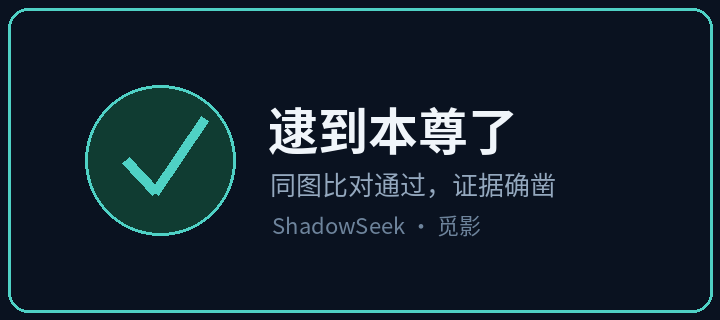
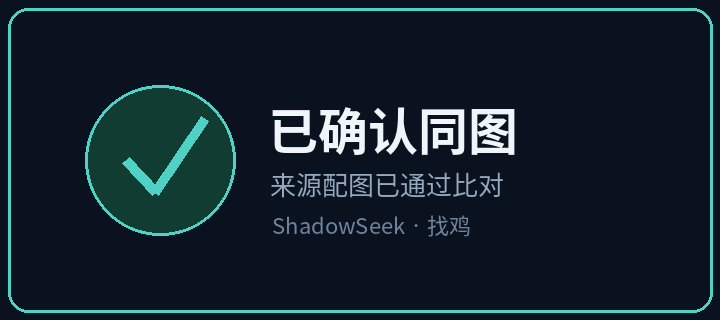
refactor: 品牌统一为「找鸡」，移除口语化网络梗
帮助命令改为 找鸡帮助，结果字段回归判定/账号/原帖/依据，图片同步重绘。

Changed region(s): [[0.3667, 0.3125, 0.7333, 0.5], [0.3667, 0.5312, 0.7639, 0.625], [0.5806, 0.6562, 0.6722, 0.75]]

diff --git a/lens/formatting.py b/lens/formatting.py
@@ -1,6 +1,6 @@
 """结果文案。
 
-刻意采用“判定 / 账号 / 原帖 / 依据 / 可信度”的结构，与原插件的五行模板区分。
+结果统一使用“判定 / 账号 / 原帖 / 依据 / 可信度”的结构，措辞保持直白。
 """
 
 from __future__ import annotations
@@ -15,27 +15,27 @@ from .models import (
     Selection,
 )
 
-HELP_TEXT = """【觅影】专业鉴图，专治「这图到底谁发的」
-发图配一句「觅影」，或引用图片再发「觅影」，我就去全网翻线索。
-· 只认原图不认脸熟，长得像的一律先当嫌疑人
-· 几位嫌疑人证据一样硬，就一起摆上桌，不硬拗答案
-· 全程只翻公开信息，不登录、不查水表
-别名：找鸡 / 图源定位 / 找原图
+HELP_TEXT = """【找鸡】发图帮你找出这张图在 X 上的原始出处
+发图配「找鸡」，或引用图片再发「找鸡」，即可检索最可能的 X 原帖或账号。
+· 只认同图：配图对上了才算找到，长得像的只作弱线索
+· 多个候选证据一样强时并列给出，不硬选一个
+· 只读取公开页面，不登录、不需要账号
+别名：觅影 / 图源定位 / 找原图
 配置：网页控制台 → ShadowSeek"""
 
 
 def _judgement(candidate: Candidate) -> str:
     if candidate.relation:
-        return "引用链锁定"
+        return "引用关系确认"
     if candidate.verified:
-        return "同图实锤"
+        return "已确认同图"
     if candidate.level >= LEVEL_SIGNED:
-        return "署名对得上"
+        return "来源署名"
     if candidate.level >= LEVEL_LINK:
-        return "摸到主页了"
+        return "链接指向"
     if candidate.level >= LEVEL_MENTION:
-        return "有人提过名"
-    return "只有皮毛"
+        return "文字提及"
+    return "弱线索"
 
 
 def _confidence(candidate: Candidate) -> str:
@@ -63,36 +63,35 @@ def _line(candidate: Candidate, prefix: str = "账号") -> str:
 def format_result(selection: Selection, report: Report) -> str:
     primary = selection.primary
     if primary is None:
-        lines = ["【觅影】翻遍犄角旮旯，没逮到本尊。"]
+        lines = ["【找鸡】没有找到可确认的来源"]
         if selection.found_pages_without_x:
-            lines.append("图是找着了，可页面里没留下 X 账号或帖子，线索断在这儿。")
+            lines.append("找到了同图页面，但页面里没有可核对的 X 账号或帖子。")
         else:
-            lines.append("识图引擎集体哑火，一张能用的 X 来源都没吐出来。")
+            lines.append("识图引擎没有返回可用的 X 来源。")
         lines.extend(_diagnostics(report))
         return "\n".join(lines)
 
-    label = "本尊" if (primary.verified or primary.relation) else "嫌疑人"
     lines = [
-        f"【觅影】判定：{_judgement(primary)}（可信度：{_confidence(primary)}）",
-        _line(primary, label),
+        f"【找鸡】判定：{_judgement(primary)}（可信度：{_confidence(primary)}）",
+        _line(primary),
     ]
     if primary.url:
-        lines.append(f"首发现场：{primary.url}")
-    reason = primary.chosen_reason or "暂时没找到硬线索"
-    lines.append(f"线索：{reason}")
+        lines.append(f"原帖：{primary.url}")
+    reason = primary.chosen_reason or "未提供判定依据"
+    lines.append(f"依据：{reason}")
 
     if selection.ambiguous:
-        lines.append("说明：几位嫌疑人证据一样硬，先不急着定罪。")
+        lines.append("说明：多个候选证据相当，暂不判定归属。")
     for alternate in selection.alternates:
-        lines.append(f"同期嫌疑人：{_account(alternate) or '未知'}")
+        lines.append(f"并列候选：{_account(alternate) or '未知'}")
         if alternate.url:
-            lines.append(f"　　　　　　　{alternate.url}")
+            lines.append(f"　　　　　{alternate.url}")
 
     if report.cache_hit:
-        lines.append("（熟人局，直接从缓存里请出来的）")
+        lines.append("（结果来自缓存）")
     if report.errors:
         errors = [f"{name}：{reason}" for name, reason in list(report.errors.items())[:4]]
-        lines.append("小状况：" + "；".join(errors))
+        lines.append("异常：" + "；".join(errors))
     return "\n".join(lines)
 
 
@@ -101,7 +100,7 @@ def _diagnostics(report: Report) -> list[str]:
     for engine, count in report.engine_counts.items():
         parts.append(f"{engine} {count}")
     if parts:
-        parts_line = "引擎战绩： " + " · ".join(parts)
+        parts_line = "检索： " + " · ".join(parts)
     else:
         parts_line = ""
     errors = [
@@ -112,9 +111,9 @@ def _diagnostics(report: Report) -> list[str]:
     if parts_line:
         lines.append(parts_line)
     if errors:
-        lines.append("小状况：" + "；".join(errors))
+        lines.append("异常：" + "；".join(errors))
     return lines
 
 
 def format_error(message: str) -> str:
-    return f"【觅影】{message}"
+    return f"【找鸡】{message}"

diff --git a/lens/command.py b/lens/command.py
@@ -24,8 +24,8 @@ from .formatting import HELP_TEXT, format_error, format_result
 
 ASSETS = Path(__file__).resolve().parent.parent / "assets"
 
-sv_shadowseek = SV("觅影", priority=5, area="ALL")
-sv_help = SV("觅影帮助", priority=2)
+sv_shadowseek = SV("找鸡", priority=5, area="ALL")
+sv_help = SV("找鸡帮助", priority=2)
 
 _CQ_IMAGE = re.compile(r"\[CQ:image,([^\]]*)\]")
 _IMAGE_URL = re.compile(r"\.(?:jpg|jpeg|png|webp|gif)(?:[?#].*)?$", re.I)
@@ -171,8 +171,8 @@ async def shadowseek_command(bot: Bot, ev: Event) -> None:
     if not sources:
         await bot.send(
             format_error(
-                "图呢？发张图再配一句「觅影」，或者引用图片再发「觅影」。\n"
-                f"发送「{_safe_prefix()}觅影帮助」看看怎么用。"
+                "请发送图片并带上「找鸡」，或引用图片再发「找鸡」。\n"
+                f"发送「{_safe_prefix()}找鸡帮助」查看用法。"
             )
         )
         return
@@ -180,13 +180,13 @@ async def shadowseek_command(bot: Bot, ev: Event) -> None:
     key = f"{ev.group_id or 'direct'}:{ev.user_id}"
     wait = await _cooldown_wait(key, settings.cooldown_seconds)
     if wait:
-        await bot.send(format_error(f"别急，让子弹飞 {wait} 秒。"))
+        await bot.send(format_error(f"操作太快，请 {wait} 秒后再试。"))
         return
 
     semaphore = await _acquire_slot(settings.max_concurrency)
     try:
         if settings.send_progress:
-            await bot.send("【觅影】正在全网翻箱倒柜，顺着图找本尊，稍等…")
+            await bot.send("【找鸡】正在检索图片来源，请稍候…")
         raw = await load_source(
             sources[0], settings.proxy or None, timeout=min(settings.search_timeout, 12)
         )
@@ -202,16 +202,16 @@ async def shadowseek_command(bot: Bot, ev: Event) -> None:
     except ImageError as exc:
         await bot.send(format_error(str(exc)))
     except Exception as exc:
-        logger.exception(f"[ShadowSeek] 觅影失败: {exc}")
-        await bot.send(format_error("半路翻车了，稍后再来一趟。"))
+        logger.exception(f"[ShadowSeek] 找鸡失败: {exc}")
+        await bot.send(format_error("检索过程出错，请稍后再试。"))
     finally:
         semaphore.release()
 
 
-@sv_help.on_fullmatch(("觅影帮助", "图源帮助", "ShadowSeek帮助"), block=True)
+@sv_help.on_fullmatch(("找鸡帮助",), block=True)
 async def shadowseek_help(bot: Bot, ev: Event) -> None:
     prefix = _safe_prefix()
-    text = HELP_TEXT if not prefix else HELP_TEXT.replace("「觅影」", f"「{prefix}觅影」")
+    text = HELP_TEXT if not prefix else HELP_TEXT.replace("「找鸡」", f"「{prefix}找鸡」")
     await bot.send(text)
     if (ASSETS / "help.png").is_file():
         await bot.send(MessageSegment.image(ASSETS / "help.png"))
@@ -220,8 +220,8 @@ async def shadowseek_help(bot: Bot, ev: Event) -> None:
 if (ASSETS / "ICON.png").is_file():
     register_help(
         "ShadowSeek",
-        f"{_safe_prefix()}觅影帮助",
+        f"{_safe_prefix()}找鸡帮助",
         Image.open(ASSETS / "ICON.png"),
     )
 else:
-    register_help("ShadowSeek", f"{_safe_prefix()}觅影帮助")
+    register_help("ShadowSeek", f"{_safe_prefix()}找鸡帮助")

diff --git a/lens/config.py b/lens/config.py
@@ -25,8 +25,8 @@ CONFIG_DEFAULT: dict[str, Any] = {
     "基础设置": GsDivider("基础设置", "命令范围、白名单与冷却"),
     "group_whitelist": GsListStrConfig("群白名单", "留空表示所有群都能使用", []),
     "private_whitelist": GsListStrConfig("私聊白名单", "留空表示所有私聊都能使用", []),
-    "cooldown_seconds": GsIntConfig("冷却秒数", "同一用户两次觅影的最短间隔", 15, max_value=600),
-    "max_concurrency": GsIntConfig("最大并发", "同时进行的觅影任务上限", 4, max_value=32),
+    "cooldown_seconds": GsIntConfig("冷却秒数", "同一用户两次找鸡的最短间隔", 15, max_value=600),
+    "max_concurrency": GsIntConfig("最大并发", "同时进行的找鸡任务上限", 4, max_value=32),
     "send_progress": GsBoolConfig("发送进度提示", "开始检索时先回一条提示", True),
     "send_result_image": GsBoolConfig("发送结论配图", "命中同图时附带一张结论图", True),
     "识图引擎": GsDivider("识图引擎", "按需启用；未配置 Key 的付费引擎会自动跳过"),
@@ -43,8 +43,8 @@ CONFIG_DEFAULT: dict[str, Any] = {
     "saucenao_api_key": GsStrConfig("SauceNAO Key", "启用 saucenao 引擎时必填", "", secret=True),
     "X 来源核验": GsDivider("X 来源核验", "读取帖子作者、关注者与配图"),
     "x_lookup_timeout": GsIntConfig("X 读取超时", "读取单条 X 帖子的超时（秒）", 10, max_value=60),
-    "max_posts": GsIntConfig("最多核验帖子", "一次觅影最多读取多少条 X 帖子", 6, max_value=20),
-    "max_pages": GsIntConfig("最多读取来源页", "一次觅影最多打开多少个来源网页", 6, max_value=20),
+    "max_posts": GsIntConfig("最多核验帖子", "一次找鸡最多读取多少条 X 帖子", 6, max_value=20),
+    "max_pages": GsIntConfig("最多读取来源页", "一次找鸡最多打开多少个来源网页", 6, max_value=20),
     "x_keyword_search": GsBoolConfig("启用关键词反查", "从来源页文字里抽一句，去 X 上反查原帖", True),
     "nitter_base": GsStrConfig("Nitter 地址", "可选，仅用于读取账号资料与图片", ""),
     "模型辅助": GsDivider("模型辅助", "可选：用兼容 OpenAI 的模型抽取来源文字"),

diff --git a/tests/test_formatting.py b/tests/test_formatting.py
@@ -15,11 +15,11 @@ def test_verified_result_layout() -> None:
     )
     report = Report(candidates=[candidate], engine_counts={"baidu": 1})
     text = format_result(Selection(primary=candidate), report)
-    assert "同图实锤" in text
+    assert "已确认同图" in text
     assert "可信度：高" in text
-    assert "本尊：@alice · Alice" in text
-    assert "首发现场：https://x.com/alice/status/1" in text
-    assert "线索：同图匹配" in text
+    assert "账号：@alice · Alice" in text
+    assert "原帖：https://x.com/alice/status/1" in text
+    assert "依据：同图匹配" in text
 
 
 def test_ambiguous_result_lists_alternate() -> None:
@@ -29,8 +29,8 @@ def test_ambiguous_result_lists_alternate() -> None:
         Selection(primary=primary, alternates=[alternate], ambiguous=True),
         Report(candidates=[primary, alternate]),
     )
-    assert "先不急着定罪" in text
-    assert "同期嫌疑人：@b" in text
+    assert "暂不判定归属" in text
+    assert "并列候选：@b" in text
 
 
 def test_no_primary_mentions_pages_without_x() -> None:
@@ -38,8 +38,8 @@ def test_no_primary_mentions_pages_without_x() -> None:
         Selection(found_pages_without_x=True),
         Report(exact_pages=2),
     )
-    assert "没逮到本尊" in text
-    assert "图是找着了" in text
+    assert "没有找到可确认的来源" in text
+    assert "同图页面" in text
 
 
 def test_diagnostics_show_errors() -> None:
@@ -47,5 +47,5 @@ def test_diagnostics_show_errors() -> None:
         Selection(found_pages_without_x=False),
         Report(errors={"baidu": "搜索服务要求验证码"}, engine_counts={"baidu": 0}),
     )
-    assert "小状况：" in text
+    assert "异常：" in text
     assert "验证码" in text

diff --git a/__init__.py b/__init__.py
@@ -1,4 +1,4 @@
-"""ShadowSeek 觅影：发送或引用图片，寻找最可能的 X 原帖与账号。"""
+"""ShadowSeek 找鸡：发送或引用图片，寻找最可能的 X 原帖与账号。"""
 
 from gsuid_core.sv import Plugins
 

diff --git a/CHANGELOG.md b/CHANGELOG.md
@@ -1,5 +1,11 @@
 # Changelog
 
+## 0.1.2
+
+- 对外品牌统一为「找鸡」，帮助命令改为 `找鸡帮助`。
+- 文案回归直白表述，移除口语化网络梗；结果字段恢复为判定 / 账号 / 原帖 / 依据。
+- 帮助图与结论图按新文案重绘。
+
 ## 0.1.1
 
 - 新增 `找鸡` 命令别名，与 `觅影`、`图源定位`、`找原图` 等价。
